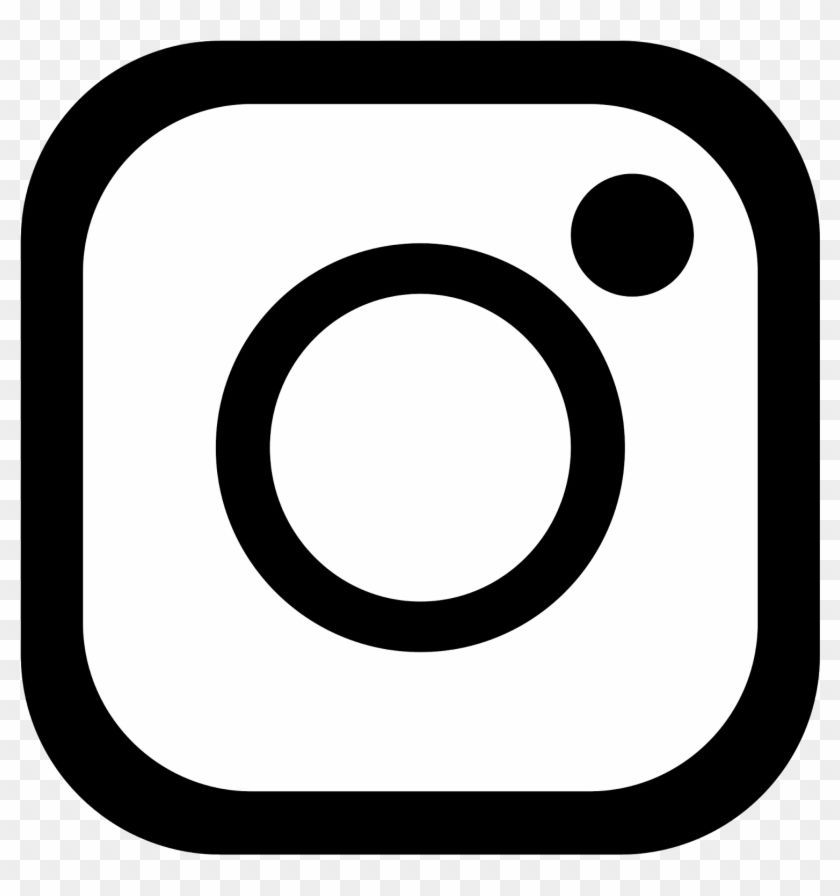
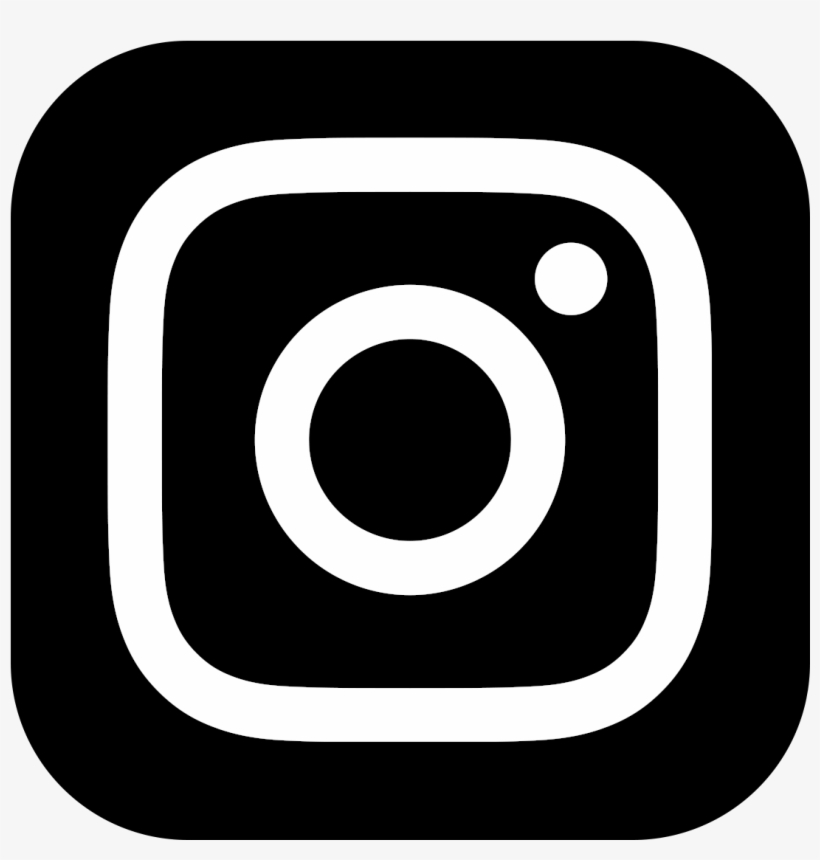
se agrego estilos a la pagina

diff --git a/index.html b/index.html
@@ -8,20 +8,28 @@
     <link rel="stylesheet" href="estilos.css">
 </head>
 <body>
-    <h1 style="text-align: center;color: red;">Rust Fan Page</h1>
-    <img src="rust.png" alt="rust">
+    <h1  id="titulo">Rust Fan Page</h1>
+    <div class="container">
+        <img src="rust.png" alt="Rust Logo" class="rust-logo">
+    </div>
+    
     <h3>What is rust?</h3>
     <div>Rust is the ultimate hardcore survival experience,
         the only aim in Rust is to survive.Everything wants 
-        you to die - the island's wildlife and other 
+        you to die,the island's wildlife and other 
         inhabitants, the environment, other survivors.</div>
     <h3>Where can you play Rust</h3>
         <span>Rust is available on </span> 
-        <span style="color: greenyellow;">Xbox series X</span>
-        <span>,</span><span style="color:blue;"> Ps5</span>
-        <span>and</span> <span style="color: chocolate;">PC</span>
-
-    <img src="insta.jpeg" alt="Instagram" style="text-align: left;">
+        <span id="xbox">Xbox series X</span>
+        <span>,</span><span id="ps5"> Ps5</span>
+        <span>and</span> <span id="pc">PC</span>
+        
+        <div id="insta">
+            <a href="https://www.instagram.com/dyinglightgame/" target="_blank">
+                <img src="insta.jpeg" alt="Instagram Logo" class="insta-logo">
+            </a>
+        </div>
+        
 
 
 

diff --git a/estilos.css b/estilos.css
@@ -1,0 +1,34 @@
+#titulo{
+color: red;
+text-align: center;
+background-color: #232323;
+
+}
+.container {
+    position: relative; 
+    left: 20%;
+}
+
+
+   
+
+#xbox{
+    color: greenyellow;
+}
+#ps5{
+    color:blue;
+}
+#pc{
+    color: chocolate;
+}
+#insta {
+    position:fixed;
+    bottom: 0px; 
+    left: 90%;
+}
+
+.insta-logo{
+    width: 50px; 
+    height: auto;
+    
+}
